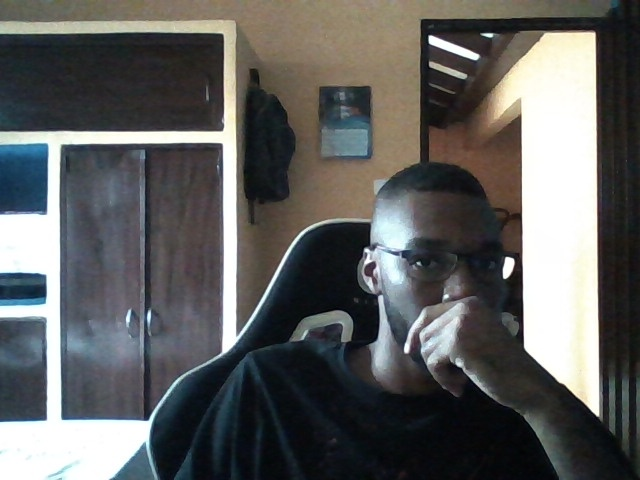
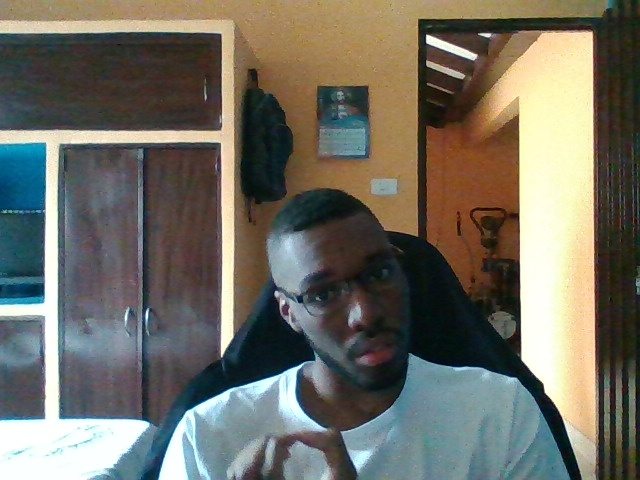
Se modifico las clases para que pueda tomar foto, analizarla y de la informacion detallada de la foto

diff --git a/flet/infodetallada.py b/flet/infodetallada.py
@@ -1,62 +1,56 @@
-import flet as ft  # Se importa la librería Flet para crear la interfaz gráfica
+import flet as ft
+from crud_diagnosticos import obtener_diagnosticos  # Asegúrate de importar la función correctamente
 
-# Función que define la vista "info_detallada"
 def info_detallada(page: ft.Page):
 
     # Función que crea una tarjeta con los datos de un registro
     def crear_tarjeta(imagen, titulo, fecha, info, recomendaciones):
         return ft.Container(
             content=ft.Column([
-                # Primera fila: imagen y título con fecha
                 ft.Row([
-                    # Imagen de la enfermedad
                     ft.Image(src=imagen, width=100, height=100, fit=ft.ImageFit.COVER),
-                    # Columna con el título y la fecha del registro
                     ft.Column([
-                        ft.Text(titulo, weight=ft.FontWeight.BOLD, color="black"),  # Título en negrita
-                        ft.Text(fecha, color="black")  # Fecha
+                        ft.Text(titulo, weight=ft.FontWeight.BOLD, color="black"),
+                        ft.Text(fecha, color="black")
                     ], spacing=5)
                 ], spacing=20),
-                
-                # Texto informativo
-                ft.Text("Información", weight=ft.FontWeight.BOLD, color="black"),  # Subtítulo
-                ft.Text(info, size=12, color="black"),  # Detalles de la enfermedad
-                
-                # Texto de recomendaciones
-                ft.Text("Recomendaciones", weight=ft.FontWeight.BOLD, color="black"),  # Subtítulo
-                ft.Text(recomendaciones, size=12, color="black"),  # Tratamientos recomendados
-
-                # Línea divisoria entre tarjetas
+                ft.Text("Información", weight=ft.FontWeight.BOLD, color="black"),
+                ft.Text(info, size=12, color="black"),
+                ft.Text("Recomendaciones", weight=ft.FontWeight.BOLD, color="black"),
+                ft.Text(recomendaciones, size=12, color="black"),
                 ft.Divider(height=20, thickness=1)
             ]),
-            padding=10  # Espaciado interno de la tarjeta
+            padding=10
         )
 
-    # Lista de registros que se mostrarán, cada uno con su tarjeta
-    registros = [
-        crear_tarjeta("imagenes/pina1.jpg", "Mancha marrón", "20/04/2024",
-                      "La mancha marrón está causada por el hongo 'Physalospora ananas'...",
-                      "- Aplicar fungicidas con cobre o mancozeb.\n- Podar las hojas afectadas."),
-        crear_tarjeta("imagenes/pina2.jpg", "Mancha de la hoja", "17/04/2024",
-                      "Condiciones de humedad afectan las hojas...",
-                      "- Mejorar el drenaje.\n- Aplicar tratamientos específicos.")
-    ]
+    # Cargar los registros desde la base de datos
+    registros = []
+    try:
+        resultados = obtener_diagnosticos()
+        for registro in resultados:
+            imagen_path = f"imagenes_tomadas/{registro['nombre_foto']}"
+            registros.append(
+                crear_tarjeta(
+                    imagen=imagen_path,
+                    titulo=registro["nombre_enfermedad"],
+                    fecha=registro["fecha"],
+                    info=registro["info_detallada"],
+                    recomendaciones=registro["tratamiento"]
+                )
+            )
+    except Exception as e:
+        print("Error al cargar registros:", e)
+        registros.append(ft.Text("No se pudieron cargar los registros.", color="red"))
 
-    # Botón de volver al menú principal
     boton_volver = ft.Container(
-        content=ft.GestureDetector(  # Detecta el gesto de clic/tap
-            content=ft.Image(
-                src="imagenes/turn-left.png",  # Icono de "volver"
-                width=40,
-                height=40
-            ),
-            on_tap=lambda e: page.go("/menu")  # Al hacer tap, redirige al menú
+        content=ft.GestureDetector(
+            content=ft.Image(src="imagenes/turn-left.png", width=40, height=40),
+            on_tap=lambda e: page.go("/menu")
         ),
-        alignment=ft.alignment.bottom_right,  # Alineado en la esquina inferior derecha
-        padding=10  # Espaciado interno
+        alignment=ft.alignment.bottom_right,
+        padding=10
     )
 
-    # Imagen de fondo de la pantalla
     fondo = ft.Image(
         src="imagenes/fondo.jpg",
         fit=ft.ImageFit.COVER,
@@ -64,26 +58,24 @@ def info_detallada(page: ft.Page):
         height=800
     )
 
-    # Contenedor principal con los registros y el título
     contenido = ft.Container(
         content=ft.Column([
-            ft.Text("Registros de mi cultivo", size=20, weight=ft.FontWeight.BOLD, color="black"),  # Título
-            ft.ListView(controls=registros, expand=True, spacing=10)  # Lista de tarjetas
+            ft.Text("Registros de mi cultivo", size=20, weight=ft.FontWeight.BOLD, color="black"),
+            ft.ListView(controls=registros, expand=True, spacing=10)
         ], spacing=20),
         padding=20,
         width=400,
-        height=800,
+        height=800
     )
 
-    # Retorna la vista final apilando el fondo, el contenido y el botón de volver
     return ft.View(
-        route="/info",  # Ruta para navegar a esta vista
+        route="/info",
         controls=[
             ft.Stack([
-                fondo,         # Fondo al fondo (valga la redundancia)
-                contenido,     # Contenido encima del fondo
-                boton_volver   # Botón flotante en la esquina
+                fondo,
+                contenido,
+                boton_volver
             ])
         ],
-        scroll=ft.ScrollMode.AUTO  # Habilita scroll automático para móviles o pantallas pequeñas
+        scroll=ft.ScrollMode.AUTO
     )

diff --git a/flet/condiciones.py b/flet/condiciones.py
@@ -1,57 +1,42 @@
+# condiciones.py
 import os
 import datetime
 
-def obtener_fecha_archivo(ruta_imagen):
-    timestamp = os.path.getctime(ruta_imagen)  # También puedes usar getmtime
-    fecha = datetime.datetime.fromtimestamp(timestamp)
-    return fecha.strftime("%Y-%m-%d %H:%M:%S")
+def obtener_condiciones(nombre_foto, enfermedad_detectada):
+    ruta_imagen = os.path.join("imagenes_tomadas", nombre_foto)
+    timestamp = os.path.getctime(ruta_imagen)
+    fecha = datetime.datetime.fromtimestamp(timestamp).strftime("%Y-%m-%d %H:%M:%S")
 
-enfermedad = "pudrición_del_corazón"
-ruta_imagen = "sana1.jpg"  # Ruta de la imagen
+    enfermedad = enfermedad_detectada.lower().replace(" ", "_")
+    tratamiento = ""
+    info_detallada = ""  # Puedes personalizar esto si lo deseas
 
-# Obtener fecha de la imagen (creación del archivo)
-fecha_foto = obtener_fecha_archivo(ruta_imagen)
-info_detallada = ""
-tratamiento = ""
+    if enfermedad == "pudrición_del_corazón":
+        enfermedad = "Pudrición del corazón"
+        tratamiento = "Mejorar drenaje del suelo, aplicar fungicidas sistémicos a base de fosetil-Al o metalaxil son recomendados."
 
-if enfermedad == "pudrición_del_corazón":
-    #print("Tiene la enfermedad Pudrición del corazón")
-    fecha_de_foto = fecha_foto
-    enfermedad = "Pudrición del corazón"
-    tratamiento = "Mejorar drenaje del suelo, aplicar fungicidas sistémicos a base de fosetil-Al o metalaxil son recomendados."
+    elif enfermedad == "pudrición_de_la_raíz":
+        enfermedad = "Pudrición de la raíz"
+        tratamiento = "Evitar encharcamientos, mejorar drenaje del suelo."
 
-elif enfermedad == "pudrición_de_la_raíz":
-    #print("Tiene la enfermedad Pudrición de la raíz")
-    fecha_de_foto = fecha_foto
-    enfermedad = "Pudrición de la raíz"
-    tratamiento = "Evitar encharcamientos, mejorar drenaje del suelo."
+    elif enfermedad == "antracnosis":
+        enfermedad = "Antracnosis"
+        tratamiento = "Aplicar fungicidas a base de cobre y eliminar partes infectadas."
 
-elif enfermedad == "antracnosis":
-    #print("Tiene la enfermedad Antracnosis")
-    fecha_de_foto = fecha_foto
-    enfermedad = "Antracnosis"
-    tratamiento = "Aplicar fungicidas a base de cobre y eliminar partes infectadas."
+    elif enfermedad == "mancha_de_la_hoja":
+        enfermedad = "Mancha de la hoja"
+        tratamiento = "Usar fungicidas foliares específicos y mejorar ventilación entre plantas."
 
-elif enfermedad == "mancha_de_la_hoja":
-    #print("Tiene la enfermedad Mancha de la hoja")
-    fecha_de_foto = fecha_foto
-    enfermedad = "Mancha de la hoja"
-    tratamiento = "Usar fungicidas foliares específicos y mejorar ventilación entre plantas."
+    elif enfermedad == "marchitez_de_la_corona":
+        enfermedad = "Marchitez de la corona"
+        tratamiento = "Eliminar plantas infectadas, evitar acumulación de agua."
 
-elif enfermedad == "marchitez_de_la_corona":
-    #print("Tiene la enfermedad Marchitez de la corona")
-    fecha_de_foto = fecha_foto
-    enfermedad = "Marchitez de la corona"
-    tratamiento = "Eliminar plantas infectadas, evitar acumulación de agua."
+    elif enfermedad == "roya_de_la_piña":
+        enfermedad = "Roya de la piña"
+        tratamiento = "Aplicar fungicidas como mancozeb y reducir humedad relativa."
 
-elif enfermedad == "roya_de_la_piña":
-    #print("Tiene la enfermedad Roya de la piña")
-    fecha_de_foto = fecha_foto
-    enfermedad = "Roya de la piña"
-    tratamiento = "Aplicar fungicidas como mancozeb y reducir humedad relativa."
+    else:
+        enfermedad = "Sana"
+        tratamiento = "Ninguno"
 
-else:
-    #print("La planta está sana")
-    fecha_de_foto = fecha_foto
-    enfermedad = "Sana"
-    tratamiento = "Ninguno"
+    return fecha, enfermedad, info_detallada, tratamiento

diff --git a/flet/abrircamara.py b/flet/abrircamara.py
@@ -3,6 +3,9 @@ import cv2
 import tempfile
 from predecir import predecir_imagen
 import os
+from condiciones import obtener_condiciones
+from crud_diagnosticos import insertar_diagnostico  # O desde donde tengas la función
+from datetime import datetime
 
 def abrir_camara(page: ft.Page, go_back):
 
@@ -34,6 +37,7 @@ def abrir_camara(page: ft.Page, go_back):
         if ret:
             nombre_imagen = generar_nombre_imagen()
             cv2.imwrite(nombre_imagen, frame)
+            ruta_ultima_imagen = nombre_imagen
             img_control.src = nombre_imagen
             img_control.update()
             contenedor_foto.visible = True
@@ -49,16 +53,41 @@ def abrir_camara(page: ft.Page, go_back):
     def aceptar_foto(e):
         if ruta_ultima_imagen and os.path.exists(ruta_ultima_imagen):
             prediccion, confianza = predecir_imagen(ruta_ultima_imagen)
+            
+            # Obtener nombre de la foto
+            nombre_foto = os.path.basename(ruta_ultima_imagen)
+            enfermedad_detectada = prediccion
+            
+            # Obtener información adicional desde condiciones.py
+            fecha_actual = datetime.now().strftime("%Y-%m-%d %H:%M:%S")
+            fecha, enfermedad, info_detallada, tratamiento = obtener_condiciones(nombre_foto, enfermedad_detectada)
+
+            # Número de foto = cuántas hay en la carpeta
+            numero_foto = len(os.listdir("imagenes_tomadas"))
+
+            # Guardar en base de datos
+            insertar_diagnostico(
+                numero_foto=numero_foto,
+                nombre_foto=nombre_foto,
+                fecha=fecha_actual,
+                nombre_enfermedad=enfermedad,
+                info_detallada=info_detallada,
+                tratamiento=tratamiento
+            )
+
+            # Mostrar resultado
             page.snack_bar = ft.SnackBar(
-                ft.Text(f"Resultado: {prediccion} ({confianza:.2f}% de confianza)")
+                ft.Text(f"Resultado: {prediccion} ({confianza:.2f}% de confianza). Guardado en base de datos.")
             )
         else:
             page.snack_bar = ft.SnackBar(
                 ft.Text("No se encontró la imagen para analizar.")
             )
+
         page.snack_bar.open = True
         page.update()
-        go_back() 
+        go_back()
+
 
     def tomar_otra(e):
         contenedor_foto.visible = False

diff --git a/flet/crud_diagnosticos.py b/flet/crud_diagnosticos.py
@@ -1,0 +1,45 @@
+# crud_diagnosticos.py
+
+import mysql.connector
+from conexion import obtener_conexion
+
+def insertar_diagnostico(numero_foto, nombre_foto, fecha, nombre_enfermedad, info_detallada, tratamiento):
+    conexion = mysql.connector.connect(
+        host="localhost",
+        user="root",
+        password="a1b2c3d4_",
+        database="sistema_cultivos"
+    )
+    cursor = conexion.cursor()
+    consulta = """
+        INSERT INTO informacion 
+        (numero_foto, nombre_foto, fecha, nombre_enfermedad, info_detallada, tratamiento)
+        VALUES (%s, %s, %s, %s, %s, %s)
+    """
+    valores = (numero_foto, nombre_foto, fecha, nombre_enfermedad, info_detallada, tratamiento)
+    cursor.execute(consulta, valores)
+    conexion.commit()
+    cursor.close()
+    conexion.close()
+
+def obtener_diagnosticos():
+    conn = None
+    cursor = None
+    try:
+        conn = obtener_conexion()
+        if not conn:
+            return []
+
+        cursor = conn.cursor(dictionary=True)
+        query = "SELECT * FROM informacion"
+        cursor.execute(query)
+        resultados = cursor.fetchall()
+        return resultados
+    except mysql.connector.Error as err:
+        print(f"Error al obtener informacion: {err}")
+        return []
+    finally:
+        if cursor:
+            cursor.close()
+        if conn:
+            conn.close()

diff --git a/flet/mainmenu.py b/flet/mainmenu.py
@@ -6,7 +6,7 @@ def menu_principal(page: ft.Page, go_to_info, go_to_crud, go_to_abrir_camara):
 
     # Función para navegar a la pantalla de información detallada
     def ir_a_info_detallada(e):
-        go_to_info()
+        go_to_info(e)
 
     # Función para cerrar sesión del usuario
     def cerrar_sesion(e):
